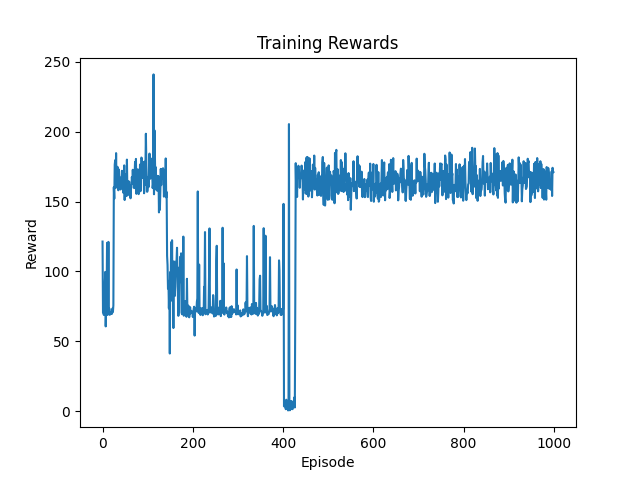
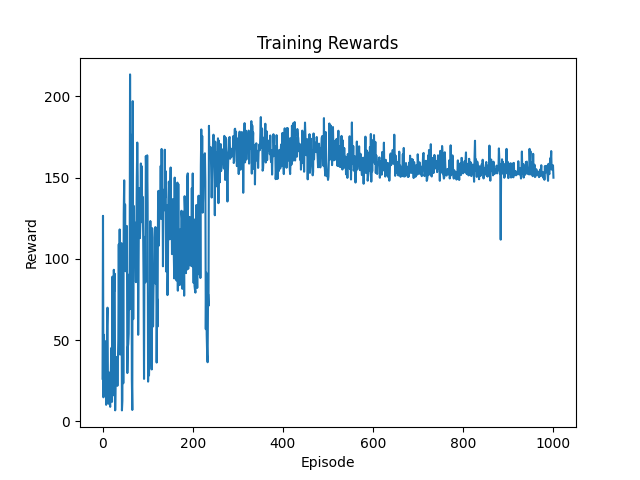
param changed

diff --git a/phase_03_dqn/1_vanilla_dqn/train.py b/phase_03_dqn/1_vanilla_dqn/train.py
@@ -31,16 +31,18 @@ target_net = QNetwork(obs_shape=obs_dim, num_actions=num_action).to(device)
 
 print(f"using device {device}")
 
-optimizer = torch.optim.Adam(q_net.parameters(), lr=1e-3)
+optimizer = torch.optim.Adam(q_net.parameters(), lr=5e-3)
 
-replay_buffer = ReplayBuffer(capacity=5000, device=device)
+replay_buffer = ReplayBuffer(capacity=50000, device=device)
 loss_fn=torch.nn.MSELoss()
 
-target_update_freq = 10
 def train(render):
-    dqn_agent = DQNAgent(q_net, target_net, replay_buffer, optimizer, loss_fn, epsilon=0.1, gamma=0.99, target_update_freq=target_update_freq)
-    num_eps = 1000
-    save_model_freq = 50
+    target_update_freq = 100
+    dqn_agent = DQNAgent(q_net, target_net, replay_buffer, optimizer, loss_fn, 
+                         epsilon_start=1.0, epsilon_end=0.01, epsilon_decay=0.995, gamma=0.99, 
+                         target_update_freq=target_update_freq)
+    num_eps = 1001
+    save_model_freq = 200
     
     reward_log = []
 
@@ -69,7 +71,7 @@ def train(render):
 
             episode_reward += reward
             
-            if render and episode >= 955:
+            if render and episode >= 999:
                 rgb_frame = env.physics.render(height=84, width=130, camera_id=0)
                 bgr_frame = cv2.cvtColor(rgb_frame, cv2.COLOR_RGB2BGR)
                 scale_factor = 4
@@ -81,12 +83,11 @@ def train(render):
                 cv2.imshow("Live Training", bgr_frame)
                 cv2.waitKey(1)
                 frames.append(rgb_frame)
-            
+
+        dqn_agent.update_epsilon()   
         reward_log.append(episode_reward)
         print(f"Episode {episode} — Reward: {episode_reward:.2f}")
 
-        if episode % target_update_freq == 0:
-            target_net.load_state_dict(q_net.state_dict())
 
         if episode % save_model_freq == 0:
             torch.save(q_net.state_dict(), f"q_net_episode_{episode}.pth")

diff --git a/phase_03_dqn/1_vanilla_dqn/dqn_agent.py b/phase_03_dqn/1_vanilla_dqn/dqn_agent.py
@@ -11,7 +11,6 @@ DISCRETE_ACTIONS = [
     np.array([ 0.5]),
     np.array([ 1.0])
 ]
-EPISODE_MAX_LEN = 300
 
 def discrete_action(idx):
     return DISCRETE_ACTIONS[idx] 
@@ -20,16 +19,22 @@ def pick_random_action():
     return DISCRETE_ACTIONS[random.randint(0,  6)]
 
 class DQNAgent:
-    def __init__(self, q_net, target_net, replay_buffer, optimizer, loss_fn, epsilon, gamma, target_update_freq):
+    def __init__(self, q_net, target_net, replay_buffer, optimizer, loss_fn, epsilon_start=1.0, epsilon_end=0.01, epsilon_decay=0.995, gamma=0.99, target_update_freq=10):
         self.q_net = q_net
         self.target_net = target_net
         self.replay_buffer = replay_buffer
         self.optimizer = optimizer
-        self.loss_fn = loss_fn 
-        self.epsilon = epsilon
-        self.gamma = gamma 
+        self.loss_fn = loss_fn
+        self.epsilon = epsilon_start
+        self.epsilon_end = epsilon_end
+        self.epsilon_decay = epsilon_decay
+        self.gamma = gamma
         self.target_update_freq = target_update_freq
         self.learn_step_counter = 0
+    
+    def update_epsilon(self):
+        if self.epsilon > self.epsilon_end:
+            self.epsilon *= self.epsilon_decay
         
     def e_greedy_action_select(self, state_tensor):
         if random.random() < self.epsilon:
@@ -76,6 +81,8 @@ class DQNAgent:
         loss.backward()
         self.optimizer.step()
         self.learn_step_counter += 1
+        if self.learn_step_counter % self.target_update_freq == 0:
+            self.update_target_net()
 
     def update_target_net(self):
         self.target_net.load_state_dict(self.q_net.state_dict())
